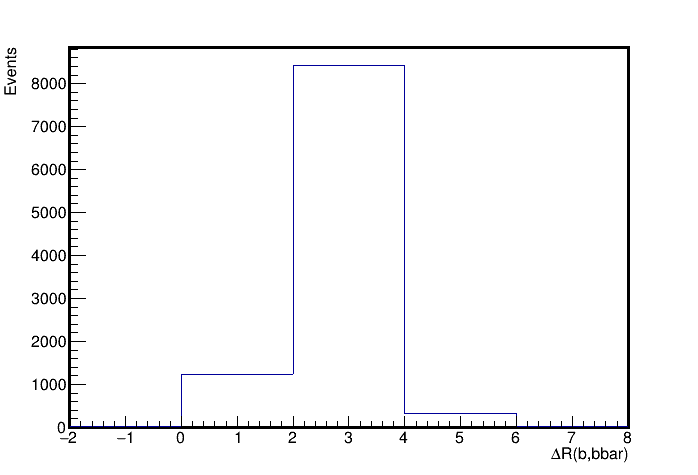
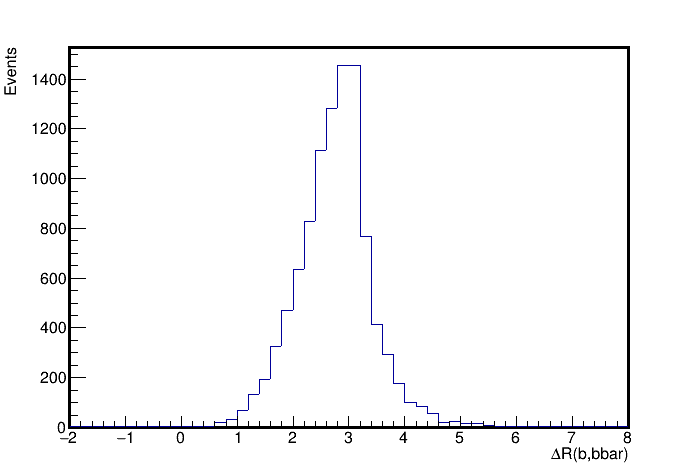
check1

diff --git a/pp_h2_h1h1_bbaa_run_01/LHE_Analyzer.py b/pp_h2_h1h1_bbaa_run_01/LHE_Analyzer.py
@@ -178,7 +178,7 @@ h_pt_h=TH1F("pT of h","",100,-10,500)
 for i in pt_h:
         h_pt_h.Fill(i)
 
-h1_DR=TH1F("DR(b,bbar)","",5,-2,8)
+h1_DR=TH1F("DR(b,bbar)","",50,-2,8)
 for i in DR:
         h1_DR.Fill(i)
 
@@ -236,7 +236,7 @@ h_pt_pho=TH1F("pT of h","",100,-10,500)
 for i in pt_h_pho:
         h_pt_pho.Fill(i)
 
-h1_DR_pho=TH1F("DR(b,bbar)","",5,-2,8)
+h1_DR_pho=TH1F("DR(pho,pho)","",50,-2,8)
 for i in DR_pho:
         h1_DR_pho.Fill(i)
 
@@ -376,7 +376,7 @@ h_pt_pho.Draw()
 cmsname.Draw()
 c.SaveAs("pt of h_pho.png")
 
-h1_DR_pho.SetXTitle("#DeltaR(pho,phobar)")
+h1_DR_pho.SetXTitle("#DeltaR(pho,pho)")
 h1_DR_pho.SetYTitle("Events")
 h1_DR_pho.Draw()
 cmsname.Draw()
